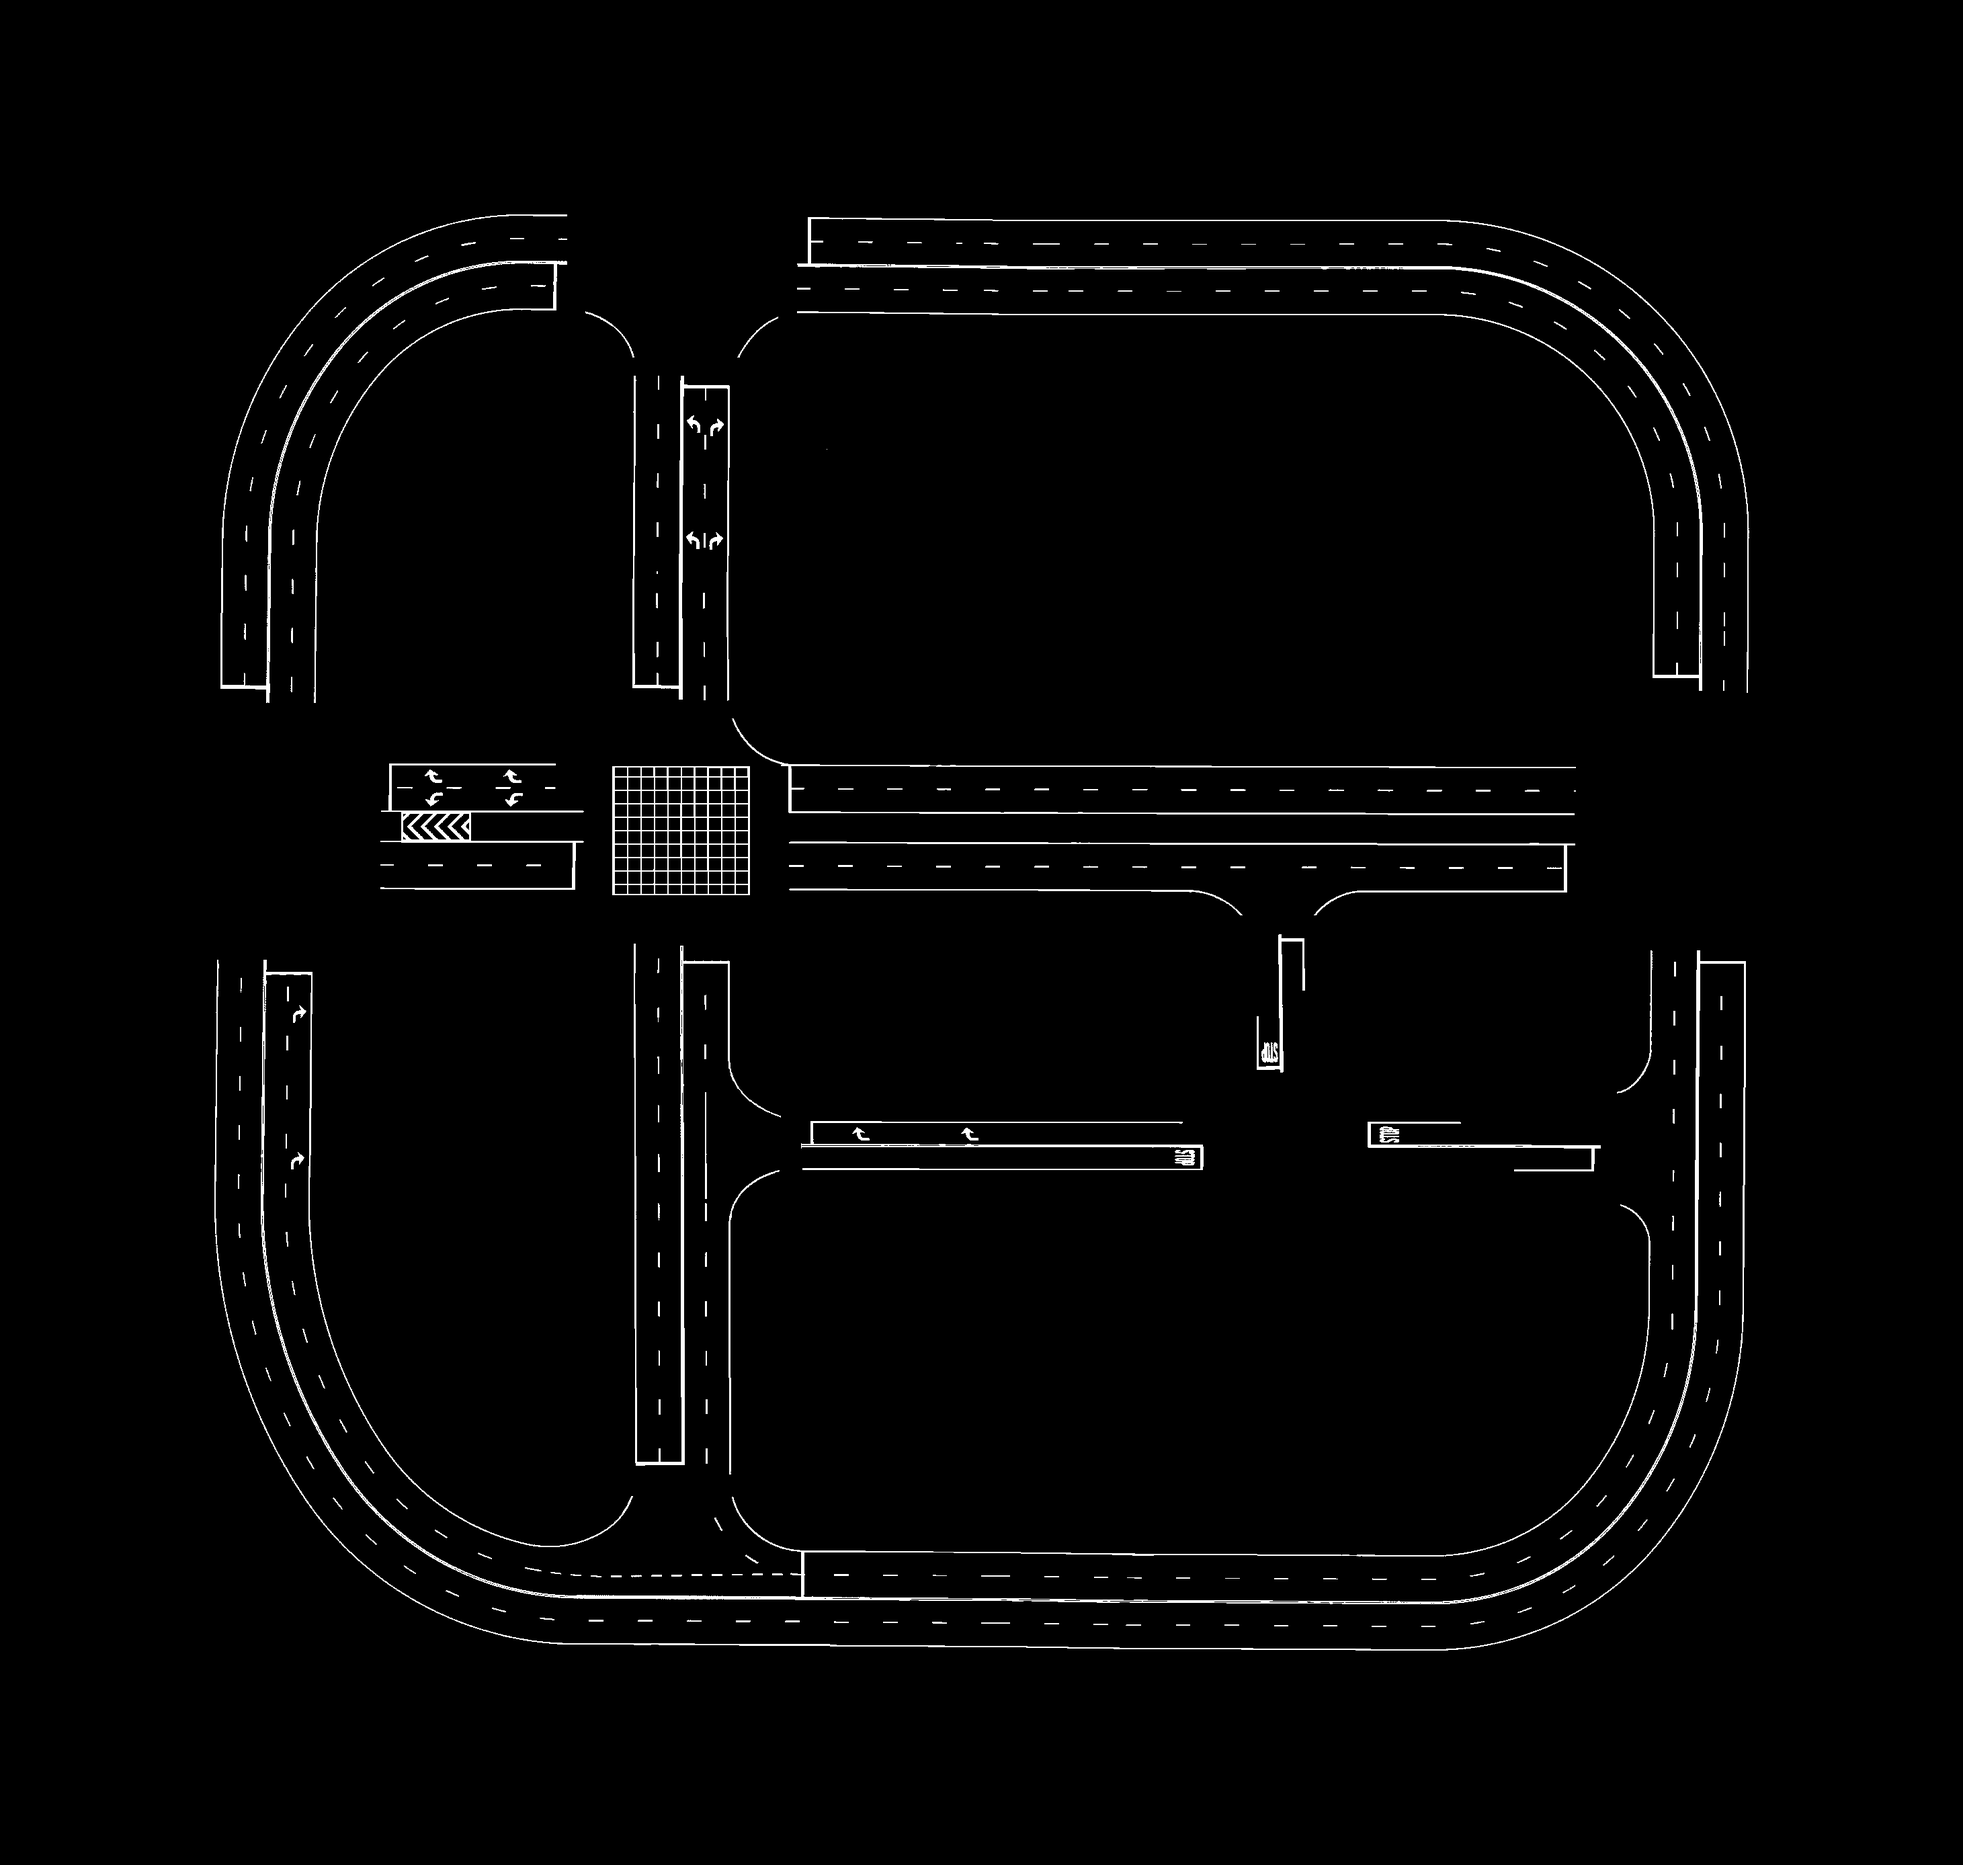
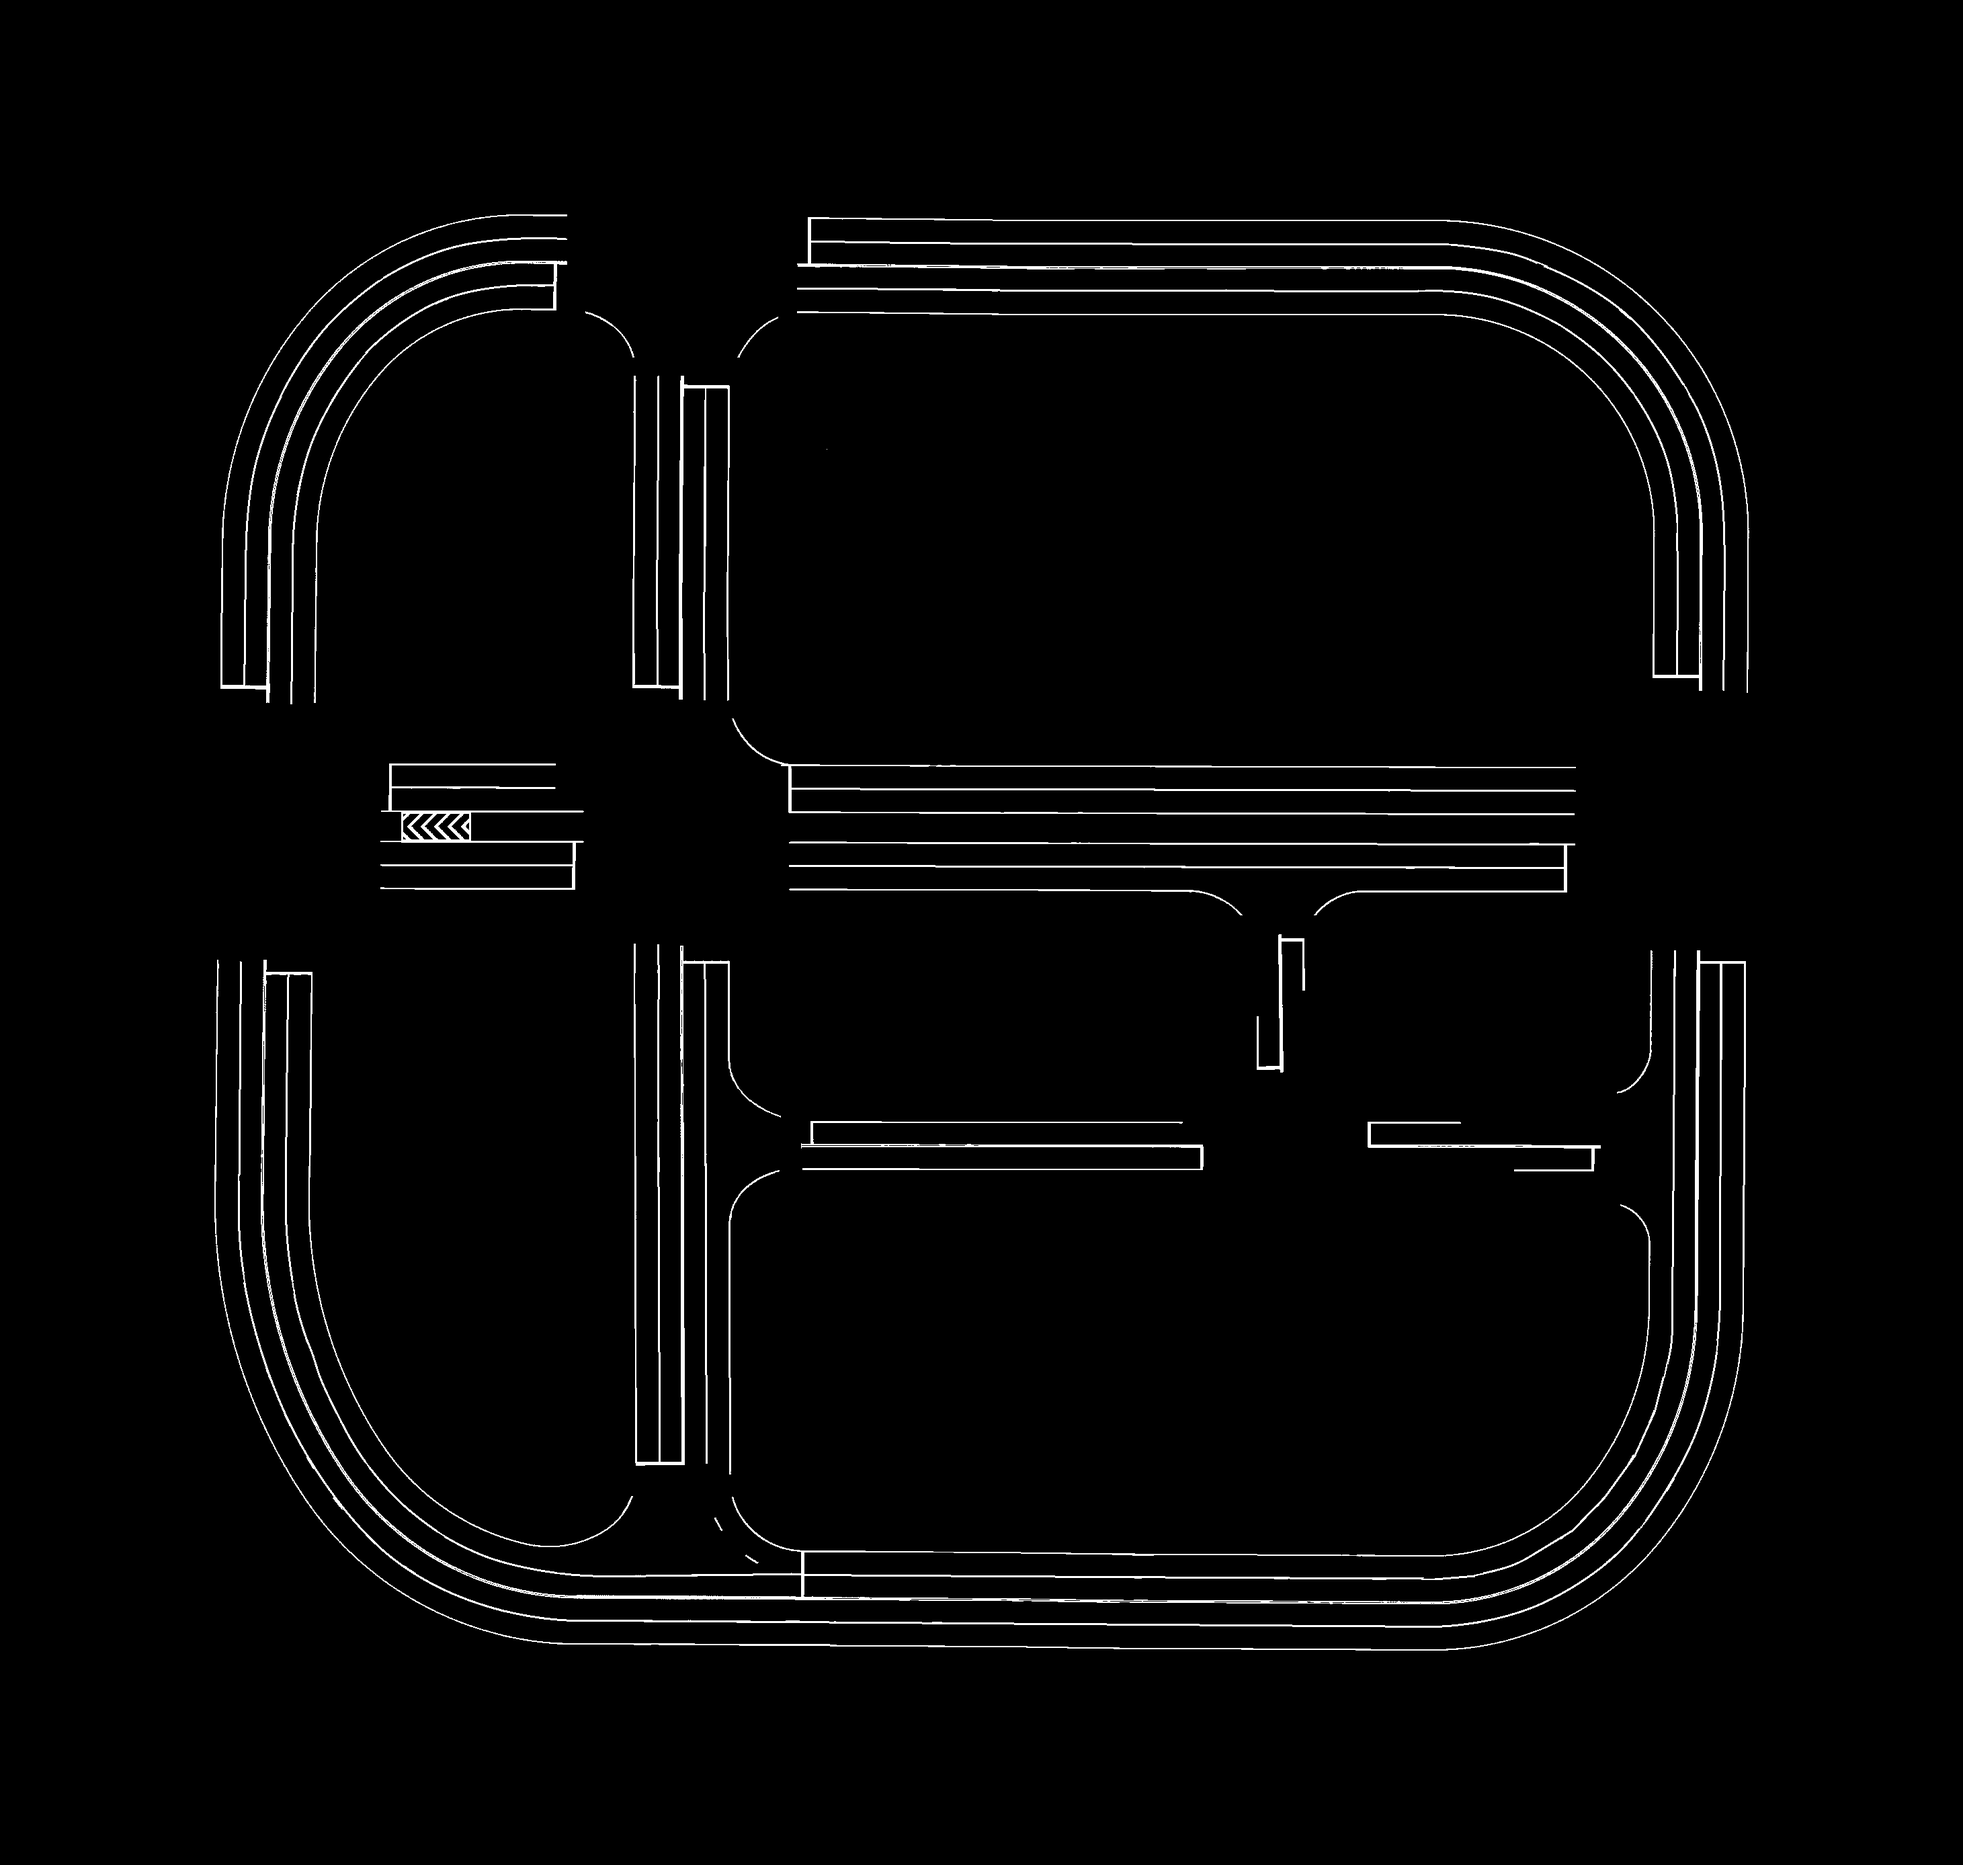
1021 multi roach agent

Changed region(s): [[0.3115, 0.4029, 0.3738, 0.4959]]

diff --git a/bird_eye_view/BirdViewProducer.py b/bird_eye_view/BirdViewProducer.py
@@ -5,6 +5,7 @@ import os
 import ujson
 
 from bird_eye_view.Mask import PixelDimensions, square_fitting_rect_at_any_rotation, MapMaskGenerator, RenderingWindow, BirdViewMasks, Coord, Loc, COLOR_OFF, COLOR_ON
+import pygame
 
 RgbCanvas = np.ndarray  # [np.uint8] with shape (y, x, 3)
 BirdView = np.ndarray  # [np.uint8] with shape (level, y, x)
@@ -26,30 +27,31 @@ class RGB:
     ROAD = (46, 52, 54)
     ROUTE = (136, 138, 133)
     ROAD_LINE = (255, 140, 255)
-    PEDESTRIANS_16 = (51, 255, 255)
-    PEDESTRIANS_11 = (102, 255, 255)
-    PEDESTRIANS_6 = (153, 255, 255)
-    PEDESTRIANS_1 = (204, 255, 255)
-    VEHICLES_16 = (51, 51, 255)
-    VEHICLES_11 = (102, 102, 255)
-    VEHICLES_6 = (153, 153, 255)
-    VEHICLES_1 = (204, 204, 255)
+    PEDESTRIANS_1 = (51, 255, 255)
+    PEDESTRIANS_6 = (102, 255, 255)
+    PEDESTRIANS_11 = (153, 255, 255)
+    PEDESTRIANS_16 = (204, 255, 255)
+    VEHICLES_1 = (51, 51, 255)
+    VEHICLES_6 = (102, 102, 255)
+    VEHICLES_11 = (153, 153, 255)
+    VEHICLES_16 = (204, 204, 255)
 
-    R_LIGHT_STOP_16 = (255, 51, 51)
-    R_LIGHT_STOP_11 = (255, 102, 102)
-    R_LIGHT_STOP_6 = (255, 153, 153)
-    R_LIGHT_STOP_1 = (255, 204, 204)
+    R_LIGHT_STOP_1 = (255, 51, 51)
+    R_LIGHT_STOP_6 = (255, 102, 102)
+    R_LIGHT_STOP_11 = (255, 153, 153)
+    R_LIGHT_STOP_16 = (255, 204, 204)
 
-    Y_LIGHT_STOP_16 = (255, 255, 51)
-    Y_LIGHT_STOP_11 = (255, 255, 102)
-    Y_LIGHT_STOP_6 = (255, 255, 153)
-    Y_LIGHT_STOP_1 = (255, 255, 204)
+    Y_LIGHT_STOP_1 = (255, 255, 51)
+    Y_LIGHT_STOP_6 = (255, 255, 102)
+    Y_LIGHT_STOP_11 = (255, 255, 153)
+    Y_LIGHT_STOP_16 = (255, 255, 204)
 
-    G_LIGHT_STOP_16 = (51, 255, 51)
-    G_LIGHT_STOP_11 = (102, 255, 102)
-    G_LIGHT_STOP_6 = (153, 255, 153)
-    G_LIGHT_STOP_1 = (204, 255, 204)
+    G_LIGHT_STOP_1 = (51, 255, 51)
+    G_LIGHT_STOP_6 = (102, 255, 102)
+    G_LIGHT_STOP_11 = (153, 255, 153)
+    G_LIGHT_STOP_16 = (204, 255, 204)
 
+    OBSTACLES = (51, 255, 51)
     # 
     # UNLABELES = (0, 0, 0)
 
@@ -74,6 +76,8 @@ class RGB:
 
 # 9 channel 
 RGB_BY_MASK = {
+
+    BirdViewMasks.OBSTACLES: RGB.OBSTACLES,
 
     BirdViewMasks.AGENT: RGB.CHAMELEON,
 
@@ -148,7 +152,15 @@ def rotate(image, angle, center=None, scale=1.0):
     # return the rotated image
     return rotated
 
-
+def tint(color, factor):
+    r, g, b = color
+    r = int(r + (255-r) * factor)
+    g = int(g + (255-g) * factor)
+    b = int(b + (255-b) * factor)
+    r = min(r, 255)
+    g = min(g, 255)
+    b = min(b, 255)
+    return (r, g, b)
 
 class BirdViewProducer:
     def __init__(self,
@@ -182,7 +194,7 @@ class BirdViewProducer:
         
     # draw 
     def produce(
-        self, vehicle_loc, yaw, agent_bbox_list, vehicle_bbox_1_16, pedestrain_bbox_1_16, r_bbox_1_16, g_bbox_1_16, y_bbox_1_16, obstacle_bbox_list, 
+        self, vehicle_loc, yaw, agent_bbox_list, vehicle_bbox_1_16, pedestrain_bbox_1_16, r_bbox_1_16, g_bbox_1_16, y_bbox_1_16, obstacle_bbox_list, route_list
     ) -> BirdView:
         
         # Reusing already generated static masks for whole map
@@ -221,14 +233,28 @@ class BirdViewProducer:
         self.masks_generator.enable_local_rendering_mode(rendering_window)
         
         
+        # give route waypoint [0 - 80 ]
+        # route_list = []
+        # for wp in route_trace:
+        #     wp = wp[0]
+        #     route_list.append(Loc(x=wp.transform.location.x, y=wp.transform.location.y))
+
+
         # draw actor 
+        # print(obstacle_bbox_list)
         masks = self._render_actors_masks(agent_bbox_list, 
                                           vehicle_bbox_1_16, 
                                           pedestrain_bbox_1_16,
                                           r_bbox_1_16, g_bbox_1_16, y_bbox_1_16, 
                                           obstacle_bbox_list, 
+                                          route_list,
                                           masks)
         
+
+
+
+        #        route_mask = np.zeros([self._width, self._width], dtype=np.uint8)
+
         # agent_bbox_list,
         # vehicle_bbox_list,
         # pedestrians_bbox_list,
@@ -254,6 +280,7 @@ class BirdViewProducer:
         pedestrain_bbox_1_16,
         r_bbox_1_16, g_bbox_1_16, y_bbox_1_16,
         obstacle_bbox_list,
+        route_list,
         masks: np.ndarray,
     ) -> np.ndarray:
         """Fill masks with ones and zeros (more precisely called as "bitmask").
@@ -267,7 +294,11 @@ class BirdViewProducer:
         # masks[BirdViewMasks.RED_LIGHTS.value] = red_lights_mask
         # masks[BirdViewMasks.YELLOW_LIGHTS.value] = yellow_lights_mask
         # masks[BirdViewMasks.GREEN_LIGHTS.value] = green_lights_mask
-        
+
+
+        masks[BirdViewMasks.ROUTE.value] = self.masks_generator.draw_route_mask(
+            route_list
+        )
 
         
         masks[BirdViewMasks.AGENT.value] = self.masks_generator.draw_bbox_mask(
@@ -412,9 +443,10 @@ class BirdViewProducer:
         # masks[BirdViewMasks.PEDESTRIANS.value] = self.masks_generator.draw_bbox_mask(
         #     pedestrians_bbox_list
         # )
-        # masks[BirdViewMasks.OBSTACLES.value] = self.masks_generator.draw_bbox_mask(
-        #     obstacle_bbox_list
-        # )
+        # print(obstacle_bbox_list)
+        masks[BirdViewMasks.OBSTACLES.value] = self.masks_generator.draw_bbox_mask(
+            obstacle_bbox_list
+        )
         
         
         return masks
@@ -431,6 +463,18 @@ class BirdViewProducer:
             mask = birdview[mask_type]
             # If mask above contains 0, don't overwrite content of canvas (0 indicates transparency)
             rgb_canvas[nonzero_indices(mask)] = rgb_color
+            
+            # print(mask_type)
+            # print(mask)
+            # print(nonzero_indices(mask))
+            # true_flag = 0
+            # for i in nonzero_indices(mask):
+            #     if True in i:
+            #         true_flag = 1
+            # if true_flag ==1:
+            #     print(mask_type)
+
+
         return rgb_canvas
     
 
@@ -448,8 +492,6 @@ class BirdViewProducer:
         # 304 --> [56, 248]
         #y [0, 192]
 
-        print(birdview[BirdViewMasks.VEHICLES_16][0:192, 56:248].shape)
-
 
         for i in range(4):
             vehicle_history.append(birdview[BirdViewMasks.VEHICLES_16+i][0:192, 56:248] * 255)
@@ -461,15 +503,31 @@ class BirdViewProducer:
         trafficlight_stop_history = []
         for i in range(4):
             single_time_frame = np.zeros([h, w], dtype=np.uint8)
-            single_time_frame[birdview[BirdViewMasks.G_LIGHT_STOP_16+i][0:192, 56:248]] = 80
-            single_time_frame[birdview[BirdViewMasks.Y_LIGHT_STOP_16+i][0:192, 56:248]] = 170
-            single_time_frame[birdview[BirdViewMasks.R_LIGHT_STOP_16+i][0:192, 56:248]] = 255
+            single_time_frame[birdview[BirdViewMasks.G_LIGHT_STOP_16+i][0:192, 56:248].astype(bool)] = 80
+            single_time_frame[birdview[BirdViewMasks.Y_LIGHT_STOP_16+i][0:192, 56:248].astype(bool)] = 170
+            single_time_frame[birdview[BirdViewMasks.R_LIGHT_STOP_16+i][0:192, 56:248].astype(bool)] = 255
             trafficlight_stop_history.append(single_time_frame)
 
         observation = np.stack((road_mask, route_mask, road_line_mask, *vehicle_history, *walker_history, *trafficlight_stop_history), axis=2)
         observation = np.transpose(observation, [2, 0, 1])
         # print(observation)
-        return observation
+
+        new_array = np.zeros([w, h, 3], dtype=np.uint8)
+        new_array[birdview[BirdViewMasks.ROAD][0:192, 56:248].astype(bool)] = (46, 52, 54)
+        new_array[birdview[BirdViewMasks.ROUTE][0:192, 56:248].astype(bool)] = (136, 138, 133)
+        new_array[birdview[BirdViewMasks.ROAD_LINE][0:192, 56:248].astype(bool)] = (255, 140, 255)        
+        for i in range(4):
+            new_array[vehicle_history[i].astype(bool)] = tint((0, 0, 255), (4-i)*0.2)
+            new_array[walker_history[i].astype(bool)] = tint((0, 255, 255), (4-i)*0.2)
+        new_array[birdview[BirdViewMasks.G_LIGHT_STOP_1][0:192, 56:248].astype(bool)] = tint((0, 255, 0), (4-i)*0.2)
+        new_array[birdview[BirdViewMasks.Y_LIGHT_STOP_1][0:192, 56:248].astype(bool)] = tint((255, 255, 0), (4-i)*0.2)
+        new_array[birdview[BirdViewMasks.R_LIGHT_STOP_1][0:192, 56:248].astype(bool)] = tint((255, 0, 0), (4-i)*0.2)                
+        # print(new_array)
+ 
+
+
+
+        return observation, new_array
 
 
     

diff --git a/bird_eye_view/Mask.py b/bird_eye_view/Mask.py
@@ -167,6 +167,23 @@ class MapMaskGenerator:
         for corners in bbox_list:
             corners = [self.location_to_pixel(loc) for loc in corners]
             cv2.fillPoly(img=canvas, pts=np.int32([corners]), color=COLOR_ON)
+        return canvas 
+
+    def draw_route_mask(self, route_list) -> Mask:
+        canvas = self.make_empty_mask()
+        # Carla corrin to pixel 
+        # route_in_pixel = np.array([[self._world_to_pixel(wp.transform.location)]
+        #                            for wp, _ in self._parent_actor.route_plan[0:80]])
+        piel_points_list = []
+        for loc in route_list:
+            piel_points_list.append(self.location_to_pixel(loc) )
+
+        piel_points_array = np.array(piel_points_list)
+
+        
+        cv2.polylines(canvas, [np.round(piel_points_array).astype(np.int32)], False, 1, thickness=16)
+        
+            #cv2.fillPoly(img=canvas, pts=np.int32([corners]), color=COLOR_ON)
         return canvas   
 
     def draw_line_mask(self, bbox_list) -> Mask:
@@ -334,7 +351,8 @@ class BirdViewMasks(IntEnum):
     # RED_LIGHTS = 7
     # YELLOW_LIGHTS = 6
     # GREEN_LIGHTS = 5
-
+    
+    OBSTACLES=24
     AGENT = 23
     Y_LIGHT_STOP_1 = 22
     Y_LIGHT_STOP_6 = 21
